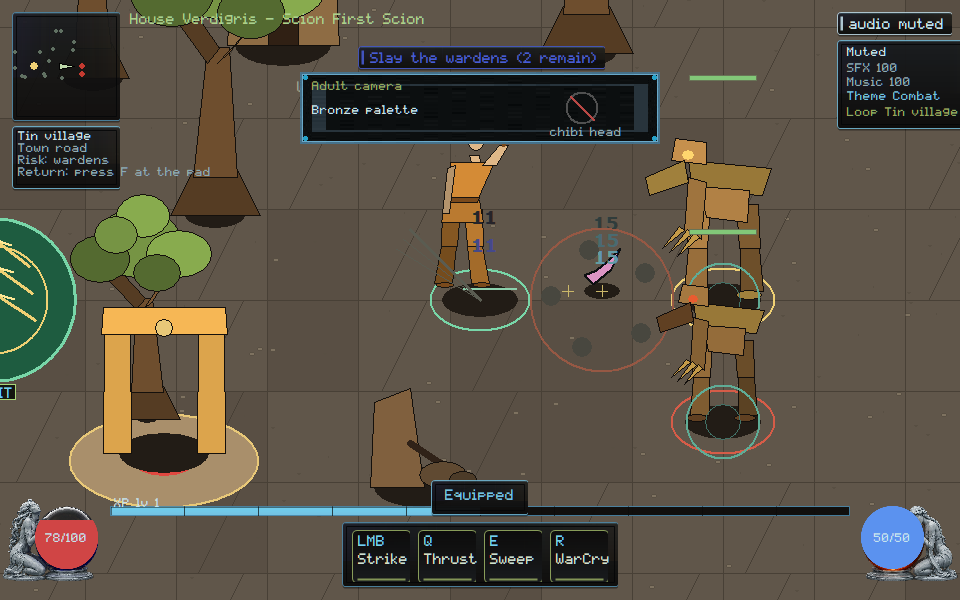
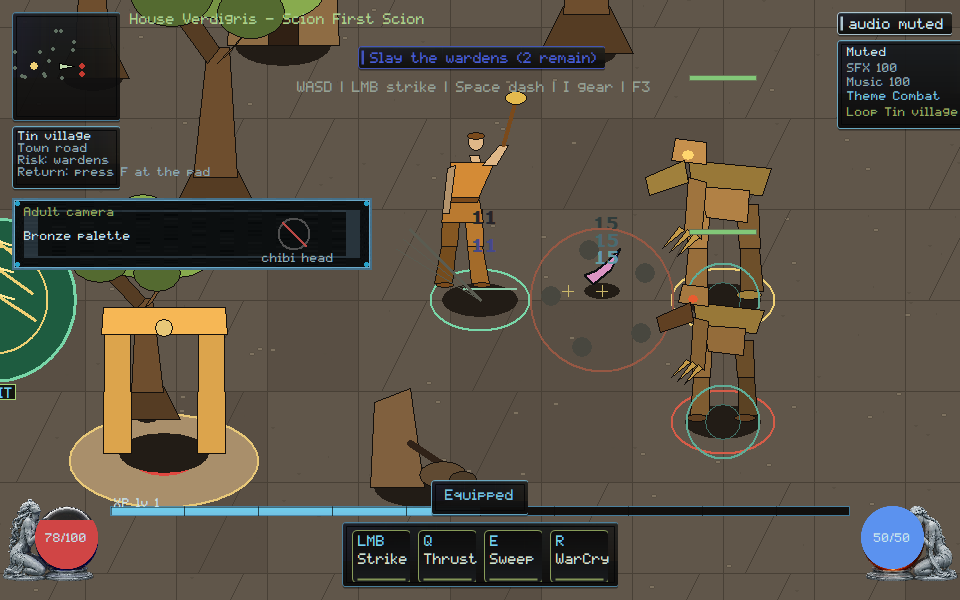
native: park Adult camera off WASD and Tin village so covering combat HUD cannot certify

Changed region(s): [[0.0, 0.33, 0.4062, 0.45], [0.3125, 0.12, 0.6875, 0.24]]

diff --git a/native/client/main.cpp b/native/client/main.cpp
@@ -3760,6 +3760,9 @@ inline const char* owner_kill_fill_label() { return "Kill fill"; }
 inline const char* owner_gold_pit_label() { return "Gold pit"; }
 inline const char* owner_adult_camera_label() { return "Adult camera"; }
 inline const char* owner_bronze_palette_label() { return "Bronze palette"; }
+inline bool visual_target_strip_covers_hud_fails_review(bool overlap) {
+  return overlap;
+}
 inline const char* owner_slay_wardens_label() { return "Slay wardens"; }
 inline const char* owner_dash_hint_label() { return "Dash hint"; }
 
@@ -7959,8 +7962,12 @@ void paint_visual_target_review_strip(ClientState& state, HDC dc, const RECT& bo
   const int s = hud_scale(static_cast<int>(bounds.bottom));
   const int pane_w = 360 * s;
   const int pane_h = 72 * s;
-  const int left = (static_cast<int>(bounds.right) - pane_w) / 2;
-  const int top = 72 * s;
+  const HudRect parked =
+      park_review_strip(state, static_cast<int>(bounds.right),
+                        static_cast<int>(bounds.bottom), pane_w, pane_h);
+  const int left = parked.x;
+  const int top = parked.y;
+  state.hud_rect_trace.push_back({"visual-target-strip", parked});
   RECT pane{left, top, left + pane_w, top + pane_h};
   if (!draw_framekit_nine(state.billboards, dc, state.billboards.fk_panel, pane))
     skin::panel(dc, pane, skin::kVerdigris, 235, 8.0f);
@@ -14268,6 +14275,30 @@ int scenario_visual_target() {
                  "visual-target: live HUD names Adult camera and Bronze palette");
   scenario_check(has("art-strip:chibi-rejected"),
                  "visual-target: live HUD rejects chibi head");
+  {
+    auto trace_find = [](const ClientState& s,
+                         const char* label) -> const HudRect* {
+      for (const auto& entry : s.hud_rect_trace)
+        if (entry.first == label) return &entry.second;
+      return nullptr;
+    };
+    const HudRect* strip = trace_find(state, "visual-target-strip");
+    const HudRect* ctrl = trace_find(state, "controls");
+    const HudRect* objective = trace_find(state, "objective");
+    const HudRect* route = trace_find(state, "route-card");
+    const HudRect* life = trace_find(state, "orb-life");
+    const bool covers =
+        (strip && ctrl && hud_rects_overlap(*strip, *ctrl)) ||
+        (strip && objective && hud_rects_overlap(*strip, *objective)) ||
+        (strip && route && hud_rects_overlap(*strip, *route)) ||
+        (strip && life && hud_rects_overlap(*strip, *life));
+    scenario_check(
+        visual_target_strip_covers_hud_fails_review(true),
+        "visual-target: covering WASD, the objective, Tin village, or Life is the anti-pattern");
+    scenario_check(
+        !visual_target_strip_covers_hud_fails_review(covers),
+        "visual-target: Adult camera stays off WASD, the objective, Tin village, and Life");
+  }
   return scenario_failures;
 }
 

diff --git a/docs/execution/CROSSWALK.md b/docs/execution/CROSSWALK.md
@@ -41,7 +41,7 @@ Cursor evidence notes.
 | VG-UI-006 | extend | TASK-0145/0177 + 0190/0197/0201 — **do not duplicate** |
 | VG-UI-007 | extend | TASK-0159 INTEGRATED, 0118 READY, 0207; `hud-pane-readability` at 960/1366/3440 + tree/character keep-out + `hud-scale-floor` + live window; TASK-0159 folder capture cannot certify; clipped C or Esc closes cannot certify; clipped I or Esc closes gear footer cannot certify; clipped DEF/LVL cannot certify; VG-UI-006 Owner Demo not duplicated |
 | VG-UI-008 | new | XInput tick path + glyphs (`pad-path`); not mouse emulation |
-| VG-ART-001/002/004 | extend | TASK-0141 INTEGRATED — village kit + collision-proxy ops (`kit-chunk`); not artist-local collision; Jointed warden stays off WASD/objective/Tin village/Life |
+| VG-ART-001/002/004 | extend | TASK-0141 INTEGRATED — village kit + collision-proxy ops (`kit-chunk`); not artist-local collision; Adult camera / Jointed warden stay off WASD/objective/Tin village/Life |
 | VG-ART-003/006 | extend | TASK-0122 INTEGRATED; 0173/0174 READY; 0186/0187 BRIDGE_PREP — Cursor paints melee **poses** (VG-ART-003) and WarCry **weave labels** plus Phase A spawn/fade (VG-ART-006) without taking TASK-0173 models or re-speccing TASK-0108; Hit flash stays off WASD/objective/Tin village/Life |
 | VG-ART-005 | extend | TASK-0182 AUTO_RELEASE, 0184; `held-item` world attachment + `loot-to-bank` pickup-to-equip hold; paper-doll seat alone cannot pass; World hold / Unarmed first stay off WASD, the objective, Tin village, and Life |
 | VG-ART-007/008 | extend | TASK-0206/0205/0207 — Owner Demo, do not duplicate |
@@ -178,8 +178,9 @@ strip paints Handle-free / Telegraph class. Poisoned `backend_handle`
 fails snapshot. Scenario `gpu-packets`. Evidence
 `docs/execution/evidence/VG-GPU-002.json`.
 VG-ART-001: in-game HUD names camera/proportion/palette/contrast. Owner
-strip paints Adult camera / Bronze palette. `first-fight` owner strip
-paints Jointed warden / Snout claws and parks off WASD, the objective,
+strip paints Adult camera / Bronze palette and parks off WASD, the
+objective, Tin village, and Life. `first-fight` owner strip paints
+Jointed warden / Snout claws and parks off WASD, the objective,
 Tin village, and Life. Covering those combat surfaces cannot certify.
 `zoom-invariance` owner strip paints Uniform pan / Zoom lock.
 `move-and-camera` owner strip paints Kit lock / Same delta. An external

diff --git a/orchestration/CURSOR_KIMI_LANES.md b/orchestration/CURSOR_KIMI_LANES.md
@@ -1089,3 +1089,15 @@ Please move off that branch before taking a new native path.
   remain yours. GOV-002 still unstamped.
   Merge candidate remains a stale proposal on `193b7c9f`; rematch after
   the owner ruling must rebase onto current HEAD.
+
+## Cursor reply (2026-09-06, Adult camera off WASD and Tin village)
+
+- **Lease:** `main.cpp` still **ACTIVE**. `remote_session.cpp` stays
+  **RELEASED**. Do not re-spec TASK-0108 core/wire (`3b929637`).
+- **Landed this push:** VG-ART-001/007 — Adult camera parks off WASD,
+  the objective, Tin village, and Life. Covering those cannot certify.
+  Chibi head still rejected. Captures viewed. Not Owner Demo.
+- **Stay off** `native/client/main.cpp` and `docs/execution/**`. SEC/CORE
+  remain yours. GOV-002 still unstamped.
+  Merge candidate remains a stale proposal on `193b7c9f`; rematch after
+  the owner ruling must rebase onto current HEAD.

diff --git a/docs/execution/CROSSWALK_REGISTRY.md b/docs/execution/CROSSWALK_REGISTRY.md
@@ -127,7 +127,7 @@ not implemented here.
 | VG-GPU-006 | G3 | new | material-light |
 | VG-GPU-007 | G2 | new | gpu-capture + PNG R/B honesty; swapped still cannot certify |
 | VG-GPU-008 | G3 | new | gpu-recover |
-| VG-ART-001 | G1 | extend | visual-target in-game sheet; first-fight Jointed warden stays off WASD/objective/Tin village/Life; zoom-invariance uniform pan; move-and-camera kit lock |
+| VG-ART-001 | G1 | extend | visual-target Adult camera stays off WASD/objective/Tin village/Life; first-fight Jointed warden stays off WASD/objective/Tin village/Life; zoom-invariance uniform pan; move-and-camera kit lock |
 | VG-ART-002 | G2 | extend | bronze-stone family |
 | VG-ART-003 | G2 | extend | attack-poses; combat-juice Hit flash stays off WASD/objective/Tin village/Life; not TASK-0108 |
 | VG-ART-004 | G2 | extend | kit-chunk: hut, ruin, fountain, gate in spawn capture |

diff --git a/docs/rebuild/HANDOFF.md b/docs/rebuild/HANDOFF.md
@@ -1,5 +1,14 @@
 # Native reconstitution handoff
 
+## 2026-09-06 — Adult camera off WASD and Tin village (Cursor)
+
+- VG-ART-001 / VG-UI-007: Adult camera / Bronze palette parks off WASD,
+  the objective, Tin village, and Life. Covering those combat surfaces
+  cannot certify. Chibi head still rejected. Owner Demo journeys not
+  duplicated.
+- Scenario `visual-target` PASS. Capture viewed. Not Owner Demo. Not
+  TASK-0108.
+
 ## 2026-09-06 — Jointed warden off WASD and Tin village (Cursor)
 
 - VG-ART-001 / VG-UI-007: Jointed warden / Snout claws parks off WASD,
